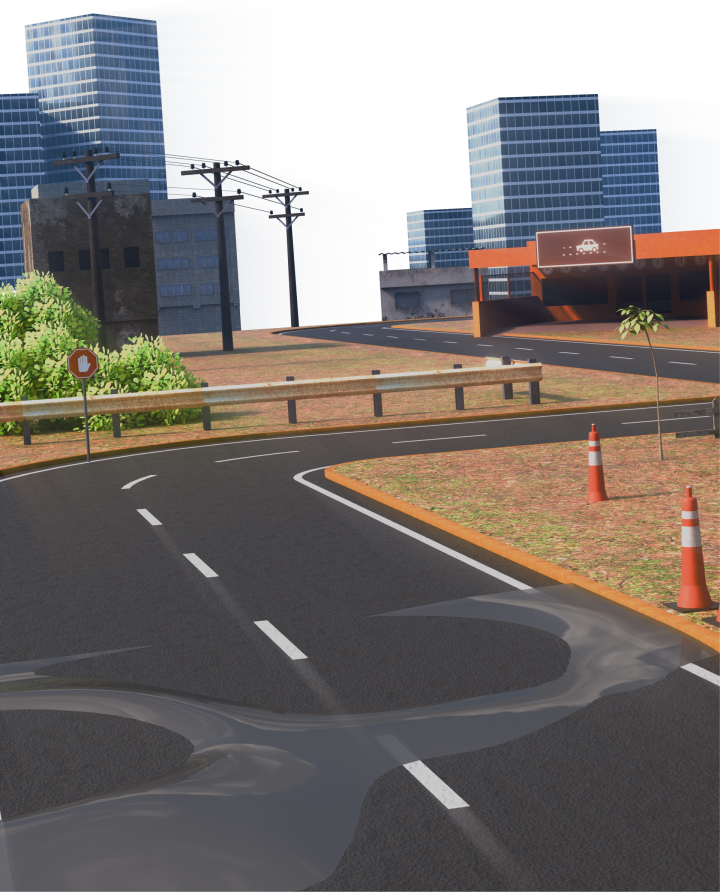
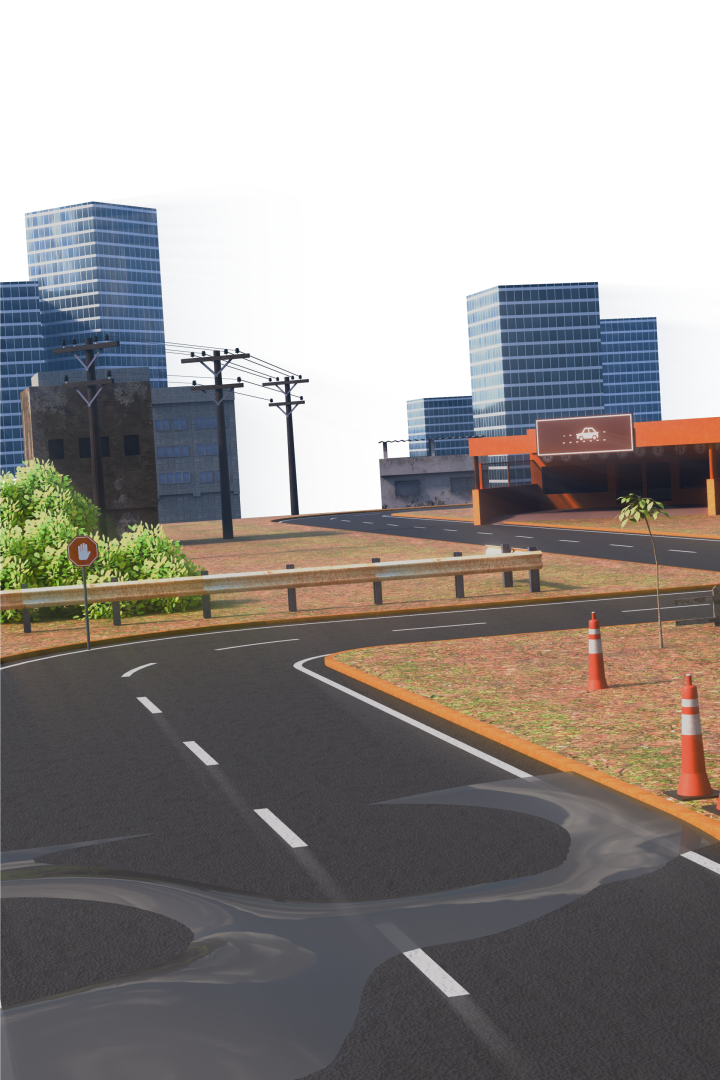
Correções no background mobile

diff --git a/assets/styles/body.css b/assets/styles/body.css
@@ -74,7 +74,7 @@ body {
 #background {
     background-repeat: no-repeat;
     background-size: cover;
-    background-position: top;
+    background-position: center top;
 }
 
 /*main *{
@@ -272,6 +272,7 @@ html {
     #background{
         padding-top: 25vh;
         background-image: url("../images/bg-body@p1x.png");
+        background-position: left top;
     }
 
 }
